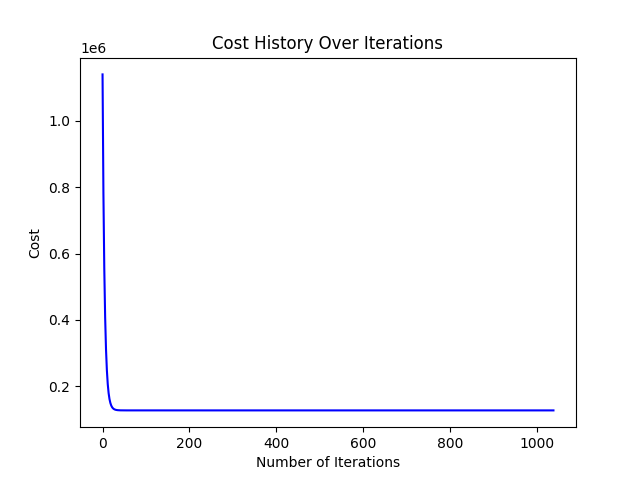
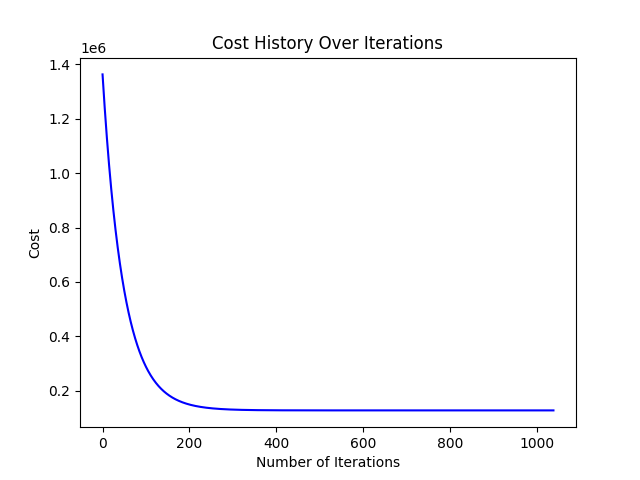
change alpha to default 0.01 and do model evaluation using MSE

diff --git a/ps2_python_Goyal_Aragya/ps2.py b/ps2_python_Goyal_Aragya/ps2.py
@@ -100,12 +100,11 @@ print("Number of training examples:", m)
 data_mean = np.mean(data[:, :-1], axis=0)
 data_std = np.std(data[:, :-1], axis=0)
 data[:, :-1] = (data[:, :-1] - data_mean) / data_std
-print("Data mean (first 5 features):", data_mean)
-print("Data std (first 5 features):", data_std)
+print("Data means:", data_mean)
+print("Data stds:", data_std)
 # Add bias term
 X = np.hstack((np.ones((m, 1)), data[:, :-1]))
 y = data[:, -1].reshape(m, 1)
-print(X[:5, :])
 # Split the data into training and test sets randomly
 np.random.seed(D)
 row_indices = np.random.permutation(m)
@@ -116,8 +115,10 @@ X_train = X_shuffled[:split_index]
 y_train = y_shuffled[:split_index]
 X_test = X_shuffled[split_index:]
 y_test = y_shuffled[split_index:]
-print("Training set size:", X_train.shape[0])
-print("Test set size:", X_test.shape[0])
+print("X_train size:", X_train.shape)
+print("y_train size:", y_train.shape)
+print("X_test size:", X_test.shape)
+print("y_test size:", y_test.shape)
 
 # Univariate Linear Regression using Gradient Descent
 # Using only Daily Min Temperature (4th feature)
@@ -144,7 +145,7 @@ plt.savefig('./output/ps2-2-d-2.png')
 plt.show()
 
 # Multivariate Linear Regression using Gradient Descent
-alpha_multivariate = 0.1
+alpha_multivariate = 0.01
 iterations_multivariate = 750 + (D*5)
 theta_init_multivariate = np.zeros((X_train.shape[1], 1))
 theta_multivariate, cost_history_multivariate = gradientDescent(X_train, y_train, theta_init_multivariate, alpha_multivariate, iterations_multivariate)
@@ -161,3 +162,17 @@ plt.savefig('./output/ps2-2-e-1.png')
 plt.show()
 
 # Model evaluation and comparison
+# Predict on test data using multivariate theta
+y_predict = X_test @ theta_multivariate
+# Calculate mean squared error on test data
+mean_squared_error = 2*computeCost(X_test, y_test, theta_multivariate)
+print("Mean Squared Error (Gradient Descent):", mean_squared_error)
+# Predict on test data using multivariate theta from normal equation
+y_predict_normal = X_test @ theta_multivariate_normal
+# Calculate mean squared error on test data
+mean_squared_error_normal = 2*computeCost(X_test, y_test, theta_multivariate_normal)
+print("Mean Squared Error (Normal Equation):", mean_squared_error_normal)
+# Calculate MSE for univariate model
+y_predict_univariate = X_test[:, [0, 4]] @ theta_univariate
+mean_squared_error_univariate = 2*computeCost(X_test[:, [0, 4]], y_test, theta_univariate)
+print("Mean Squared Error (Univariate):", mean_squared_error_univariate)
